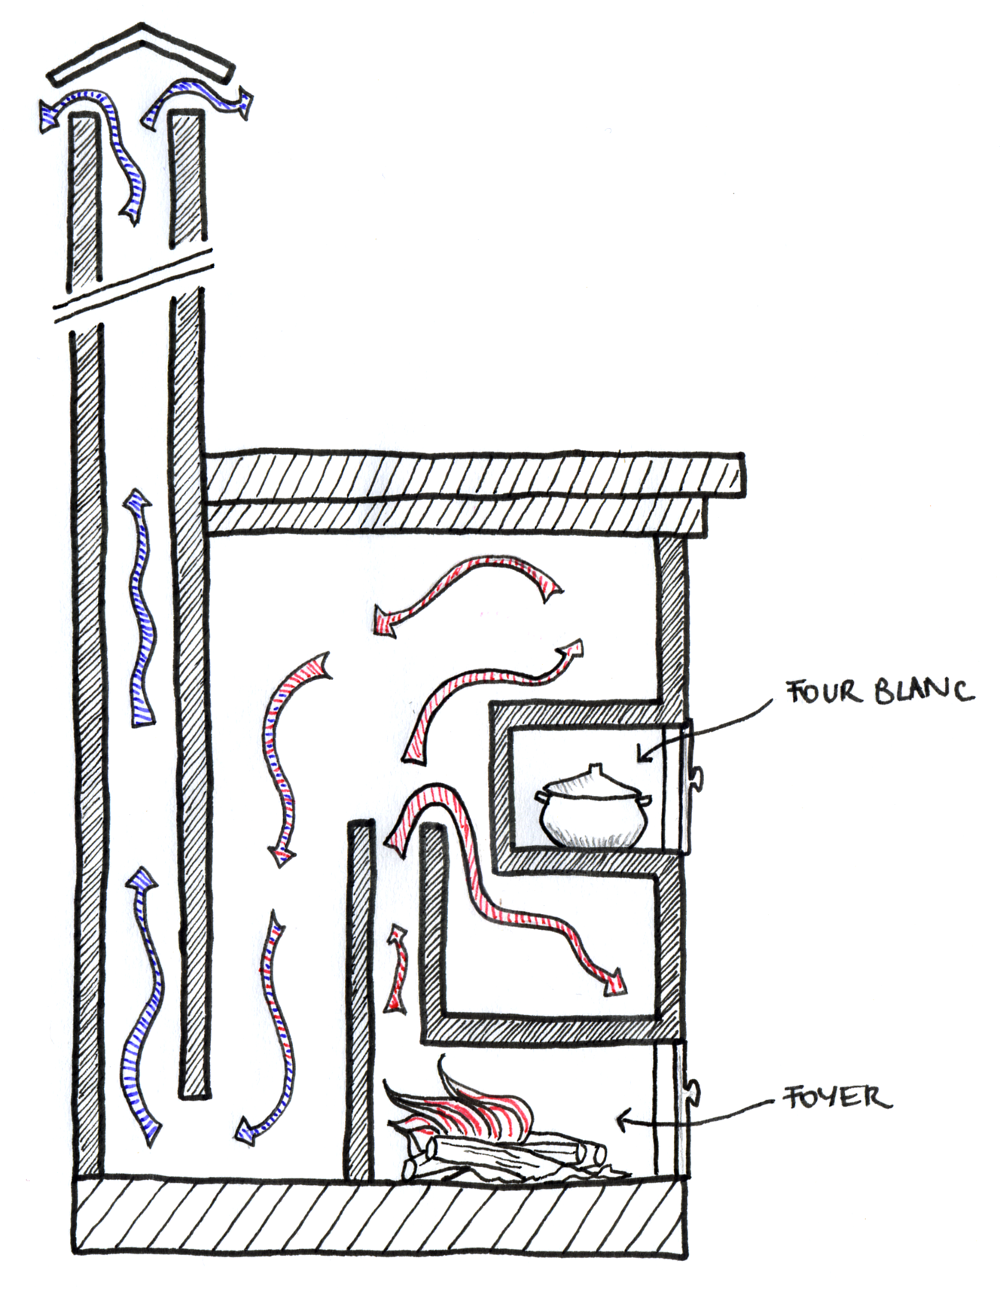
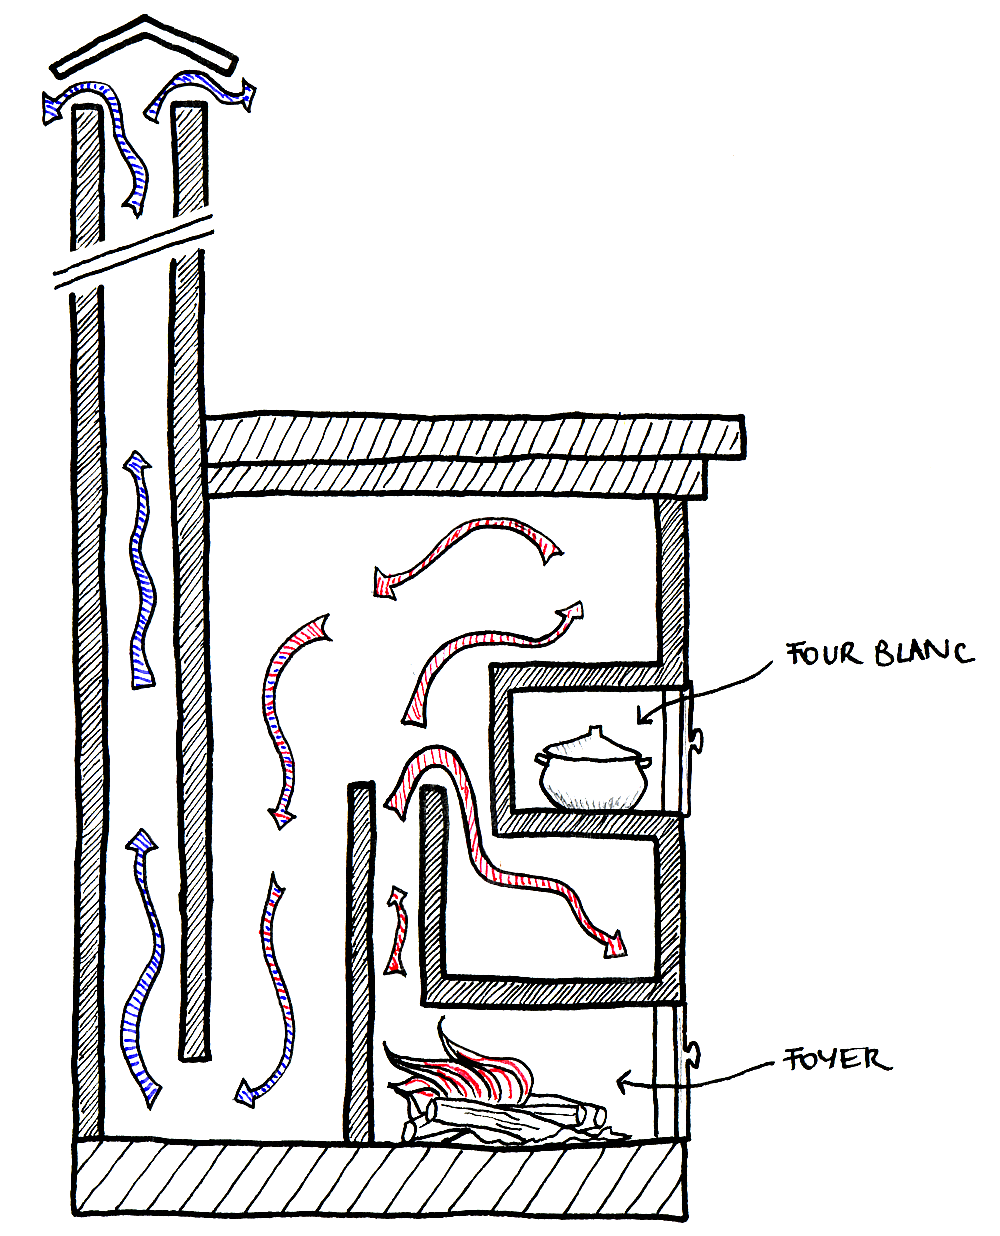
modifs_04092017

diff --git a/batchrocket_cloche.html b/batchrocket_cloche.html
@@ -70,7 +70,19 @@
               <div class="col-sm-12">
                 <img class="img-responsive" src="./assets/img/batchrocket_cloche/chinese_kiln_self_reliant_potter.png">
               </div>
-              <p class="subtitle">Schéma d'un four "dragon" de potier chinois fonctionnant sous le principe des cloches;</br>Source : <a class="ref">The Self-Reliant Potter: Refractories and Kilns, Henrik Norsker, 1987, p. 58;</a></p>
+              <ul class="row gallery">
+                <li class="col-xs-6">
+                  <img class="img-responsive" src="./assets/img/batchrocket_cloche/climbing_kiln_Mashiko.jpg">
+                </li>
+                <li class="col-xs-6">
+                  <img class="img-responsive" src="./assets/img/batchrocket/down-draught_kiln_self_reliant_potter.png">
+                </li>
+              </ul>
+              </p>
+              <p class="subtitle">En haut, Schéma d'un four "dragon" de potier chinois fonctionnant sous le principe des cloches;</br>À gauche, photo d'un four dragon réalisé au Japon avec des cloches en série; à droite, schéma d'un four à briques en simple cloche.</br>Sources
+                : <a class="ref">The Self-Reliant Potter: Refractories and Kilns, Henrik Norsker, 1987, p. 58 et 50.</a> et
+                <a class="ref" href="https://commons.wikimedia.org/wiki/File:Climbing_kiln_Mashiko.jpg">wikimedia.org/wiki/File:Climbing_kiln_Mashiko.jpg</a>
+              </p>
               <p>Le principe des cloche se conçoit par analogie avec l'eau : dans un lac, l'eau coule très lentement. Ceci lui laisse le temps de se stratifier par couche de température. L'eau la plus froide est en bas, donc si avec un tuyau on pompait l'eau
                 du fond du lac, on obtiendrait l'eau la plus froide.</p>
               <p>A contrario, dans un torrent le débit est plus rapide et le chemin plus tortueux : tout se mélange et on ne peut extraire qu'une eau à une température moyenne.</p>
@@ -93,32 +105,8 @@
                 Seulement, plus les gaz donnent leur chaleur, plus ils se refroidissent eux-mêmes, et plus ils descendent dans la cloche jusqu'à arriver en bas au niveau de l'évacuation.
               </p>
               <p>Ainsi, plus les gaz sont en contact avec une surface importante de briques, plus ils seront froids en sortie. On peut soit avoir toute cette surface dans une unique cloche, soit dans une série de petites cloches comme pour le four "dragon".</p>
-              <p>
-                <ul class="row gallery">
-                  <li class="col-xs-6">
-                    <img class="img-responsive" src="./assets/img/batchrocket/down-draught_kiln_self_reliant_potter.png">
-                  </li>
-                  <li class="col-xs-6">
-                    <img class="img-responsive" src="./assets/img/batchrocket_cloche/climbing_kiln_Mashiko.jpg">
-                  </li>
-                </ul>
-              </p>
-              <p class="subtitle">À gauche, schéma d'un four à briques en simple cloche; à droite, four dragon réalisé au Japon avec des cloches en série.</br>Sources : <a class="ref">The Self-Reliant Potter: Refractories and Kilns, Henrik Norsker, 1987, p. 50.</a> et
-                <a href="https://commons.wikimedia.org/wiki/File:Climbing_kiln_Mashiko.jpg">https://commons.wikimedia.org/wiki/File:Climbing_kiln_Mashiko.jpg</a>
-              </p>
-              <h2>
-                <a name="autres_systemes"></a>Les autres systèmes</h2>
-              <hr>
-              <p>Un système très classique en Europe de l'Ouest est de faire passer les gaz dans une série de chicanes empilées les unes sur les autres. Il existe en fait beaucoup de variété dans les différents systèmes de récupération de la chaleur.</p>
 
-              <p>Ces systèmes ont même été réutilisés pour augmenter le rendement des poêles en fonte. L'objectif est toujours le même : faire que les gaz issus de la combustion entrent en contact avec une certaine surface de briques ou de métal pour que
-                les gaz sortent de la cheminée à une température d'environ 100°C.</p>
-              <div class="col-sm-12">
-                <div class="col-xs-8 col-xs-offset-2">
-                  <img class="img-responsive" src="./assets/img/batchrocket_cloche/norwegian_cast_iron_stoves.jpg">
-                </div>
-              </div>
-              <p class="subtitle">Schémas de poêles en fonte Norvégiens des années 1800. </br>Source : The Book of Masonry Stoves, David Lyle, 1984, p. 53.</p>
+
               <h2>
                 <a name="avantages_cloches"></a>Les avantages des cloches</h2>
               </hr>
@@ -130,21 +118,37 @@
                   <img class="img-responsive" src="./assets/img/batchrocket_cloche/canaux_cloche.png">
                 </div>
               </div>
-              <p class="subtitle">Schéma de circulation des gaz dans des canaux ascendants ou descendants. </br>Source : The Rational Construction of Furnaces, W.E. Groume-Grimailo, Petrograd, Russia, 1911, p. 91.</p>
+              <p class="subtitle">Schéma de circulation des gaz dans des canaux ascendants ou descendants. </br>Source : <a class="ref">The Rational Construction of Furnaces, W.E. Groume-Grimailo, Petrograd, Russia, 1911, p. 91.</a></p>
               <p>Dans les poêles de masse, l'utilisation du système des cloches permet :
                 <ul>
                   <li>D'éviter les "points chauds". La température est uniforme par couche de niveau donc la maçonnerie est moins solicitée.</li>
                   <li>De diminuer les frottements qui ralentissent les gaz et obligent à utiliser des cheminées avec un fort tirage.</li>
-                  <li>Une grande variété de formes. De plus, l'intérieur des cloches est un grand espace vide excellent pour y placer un four.</li>
+                  <li>Une grande variété de formes possibles, ce qui est un plus pour les rénovations. </li>
+                  <li>L'intérieur des cloches est un grand espace vide excellent pour y placer un four.</li>
                 </ul>
               </p>
-              <div class="col-sm-12">
-                <div class="col-xs-4 col-xs-offset-4">
-                  <img class="img-responsive" src="./assets/img/batchrocket_cloche/schema_double_cloche.gif">
-                </div>
-              </div>
-              <p class="subtitle">Schéma de circulation des gaz dans chauds et froids dans un poêle en double cloche.</p>
-
+              <h3>Four blanc ? Four noir ?</h3>
+              <p>Les poêles de masse sont aussi des outils de cuisson très pratiques. Le four est chaud pendant toute la saison de chauffe. Pendant ou juste après une flambée le four est à sa température maximale. Ensuite la température du four diminue graduellement
+                jusqu'à la prochaine flambée. On ne règle pas la température du four : on attend que le four ait la bonne température pour y enfourner le plat.
+                <ul class="row gallery">
+                  <li class="col-xs-6">
+                    <img class="img-responsive" src="./assets/img/batchrocket_cloche/schema_poele_de_masse_four_blanc.png">
+                  </li>
+                  <li class="col-xs-6">
+                    <img class="img-responsive" src="./assets/img/batchrocket_cloche/schema_poele_de_masse_four_noir.png">
+                  </li>
+                </ul>
+              </p>
+              <p class="subtitle">À gauche, schéma d'un poêle de masse à chicanes. À droite, schéma d'un poêle de masse utilisant le principe des cloches.
+                </br><a class="ref">Schéma réalisé par G. Stephens, association UZUME.</a></p>
+              <p>Deux types de four existent, les fours noirs et les fours blancs :
+                <ul>
+                  <li>Dans un <b>four noir</b> les gaz chauds sont en contact direct avec les aliments. Le four devient "noir" parce que les suies (du carbone) s'y déposent.</li>
+                  <li>Dans un <b>four blanc</b> les gaz sont en contact avec les parois externes du four. La partie intérieure du four reste toujours "blanche" parce qu'aucune suie ne s'y dépose.</li>
+                </ul>
+              </p>
+              <p></p>
+              <p></p>
               <h2>
                 <a name="dimensionnement"></a>Le dimensionnement des cloches</h2>
               <hr>
@@ -203,7 +207,18 @@
 
                 Une cloche peut être en brique ou en métal, cela n'a pas d'incidence sur la surface de cloche correspondante.
               </p>
-
+              <h2>
+                <a name="autres_systemes"></a>Les autres systèmes</h2>
+              <hr>
+              <p>Un système très classique en Europe de l'Ouest est de faire passer les gaz dans une série de chicanes empilées les unes sur les autres. Il existe en fait beaucoup de variété dans les différents systèmes de récupération de la chaleur.</p>
+              <p>Ces systèmes ont même été réutilisés pour augmenter le rendement des poêles en fonte. L'objectif est toujours le même : faire que les gaz issus de la combustion entrent en contact avec une certaine surface de briques ou de métal pour que
+                les gaz sortent de la cheminée à une température d'environ 100°C.</p>
+              <div class="col-sm-12">
+                <div class="col-xs-8 col-xs-offset-2">
+                  <img class="img-responsive" src="./assets/img/batchrocket_cloche/norwegian_cast_iron_stoves.jpg">
+                </div>
+              </div>
+              <p class="subtitle">Schémas de poêles en fonte Norvégiens des années 1800. </br>Source : <a class="ref">The Book of Masonry Stoves, David Lyle, 1984, p. 53.</a></p>
               <div class="modal fade" id="myModal" tabindex="-1" role="dialog" aria-labelledby="myModalLabel" aria-hidden="false">
                 <div class="modal-dialog">
                   <div class="modal-content">

diff --git a/batchrocket_dimensionnement.html b/batchrocket_dimensionnement.html
@@ -116,8 +116,10 @@
                             <p>Si on regarde maintenant les déperditions du même volume mais pour une construction récente de type RT2012, on obtient :</p>
                             <p class="text-center">\(Q=0.5*50*2.5*25=1600W\)</p>
                             <p>Bien sûr la méthode proposée ici est grossière et un bureau d'étude pourrait obtenir des résultats beaucoup plus précis. Néanmoins, les poêles de masse, à la différence des poêles en fonte traditionnels, peuvent être surdimensionnés
-                                sans aucun problème de rendement. </br>En effet, un poêle en fonte surdimensionné va devoir brûler au ralenti la très grande majorité du temps pour ne pas surchauffer l'habitation. Or, au ralenti les rendements chutent, la pollution s'envole et les
-                                conduites s'encrassent. </br>Avec les poêles de masse cette situation n'arrive jamais car la flambée est toujours vive. On régule la restitution de chaleur en espaçant plus ou moins les flambées : par temps d'hiver normal une
+                                sans aucun problème de rendement. </p>
+                                <p>En effet, un poêle en fonte surdimensionné va devoir brûler au ralenti la très grande majorité du temps pour ne pas surchauffer l'habitation. Or, au ralenti les rendements chutent, la pollution s'envole et les
+                                conduites s'encrassent. </p>
+                                <p>Avec les poêles de masse cette situation n'arrive jamais car la flambée est toujours vive. On régule la restitution de chaleur en espaçant plus ou moins les flambées : par temps d'hiver normal une
                                 flambée par jour suffit, en automne un flambée tous les deux jours peut aussi suffire et lors de froids plus intenses on passe à deux flambées par jour ou plus. Au delà de 3 ou 4 flambées par jour on atteint la limite de
                                 restitution de chaleur pour un poêle de masse. Il n'arrive plus a récupérer la chaleur et les rendements diminuent.</p>
                             <h2>
